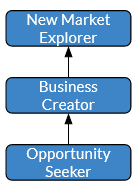
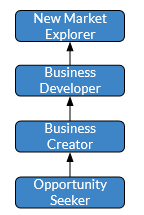
Add Business Developer

diff --git a/paths/business.md b/paths/business.md
@@ -18,6 +18,7 @@ All types of businesspersons share common fundamental abilities:
 In order to grow in that path, we designed 3 different levels we thought relevant for any type of Business person:
 - __Opportunity seeker__: is able to listen to the demand and satisfy it
 - __Business Creator__: is able to analyze the demand and satisfy the underlying need
+- __Business Developer__: is able to developp a set of demands and to satisfy the needs according to the customer capacity.
 - __New Market Explorer__: is able to anticipate the demand and create a new need
 
 
@@ -66,6 +67,17 @@ The key abilities of a Business Creator are:
 - Ability to go over the demand to identify the real needs
 - Ability to validate the identified needs
 - Ability to question the expression of the need
+
+### Business Developer
+
+When we meet a requirement we tends to satisfy it the "perfect" way. Satisfying it according the proper cost is a key point.
+Also, being able to cover a large scope of needs/topic is important to help the customer globally and not only on a specific area.
+
+The key abilities of a Business Developer are:
+- Ability to go over the demand to identify the real needs
+- Ability to provide a "Design to cost" solution
+- Ability to help on a large scope
+
 
 ### New Market Explorer
 
